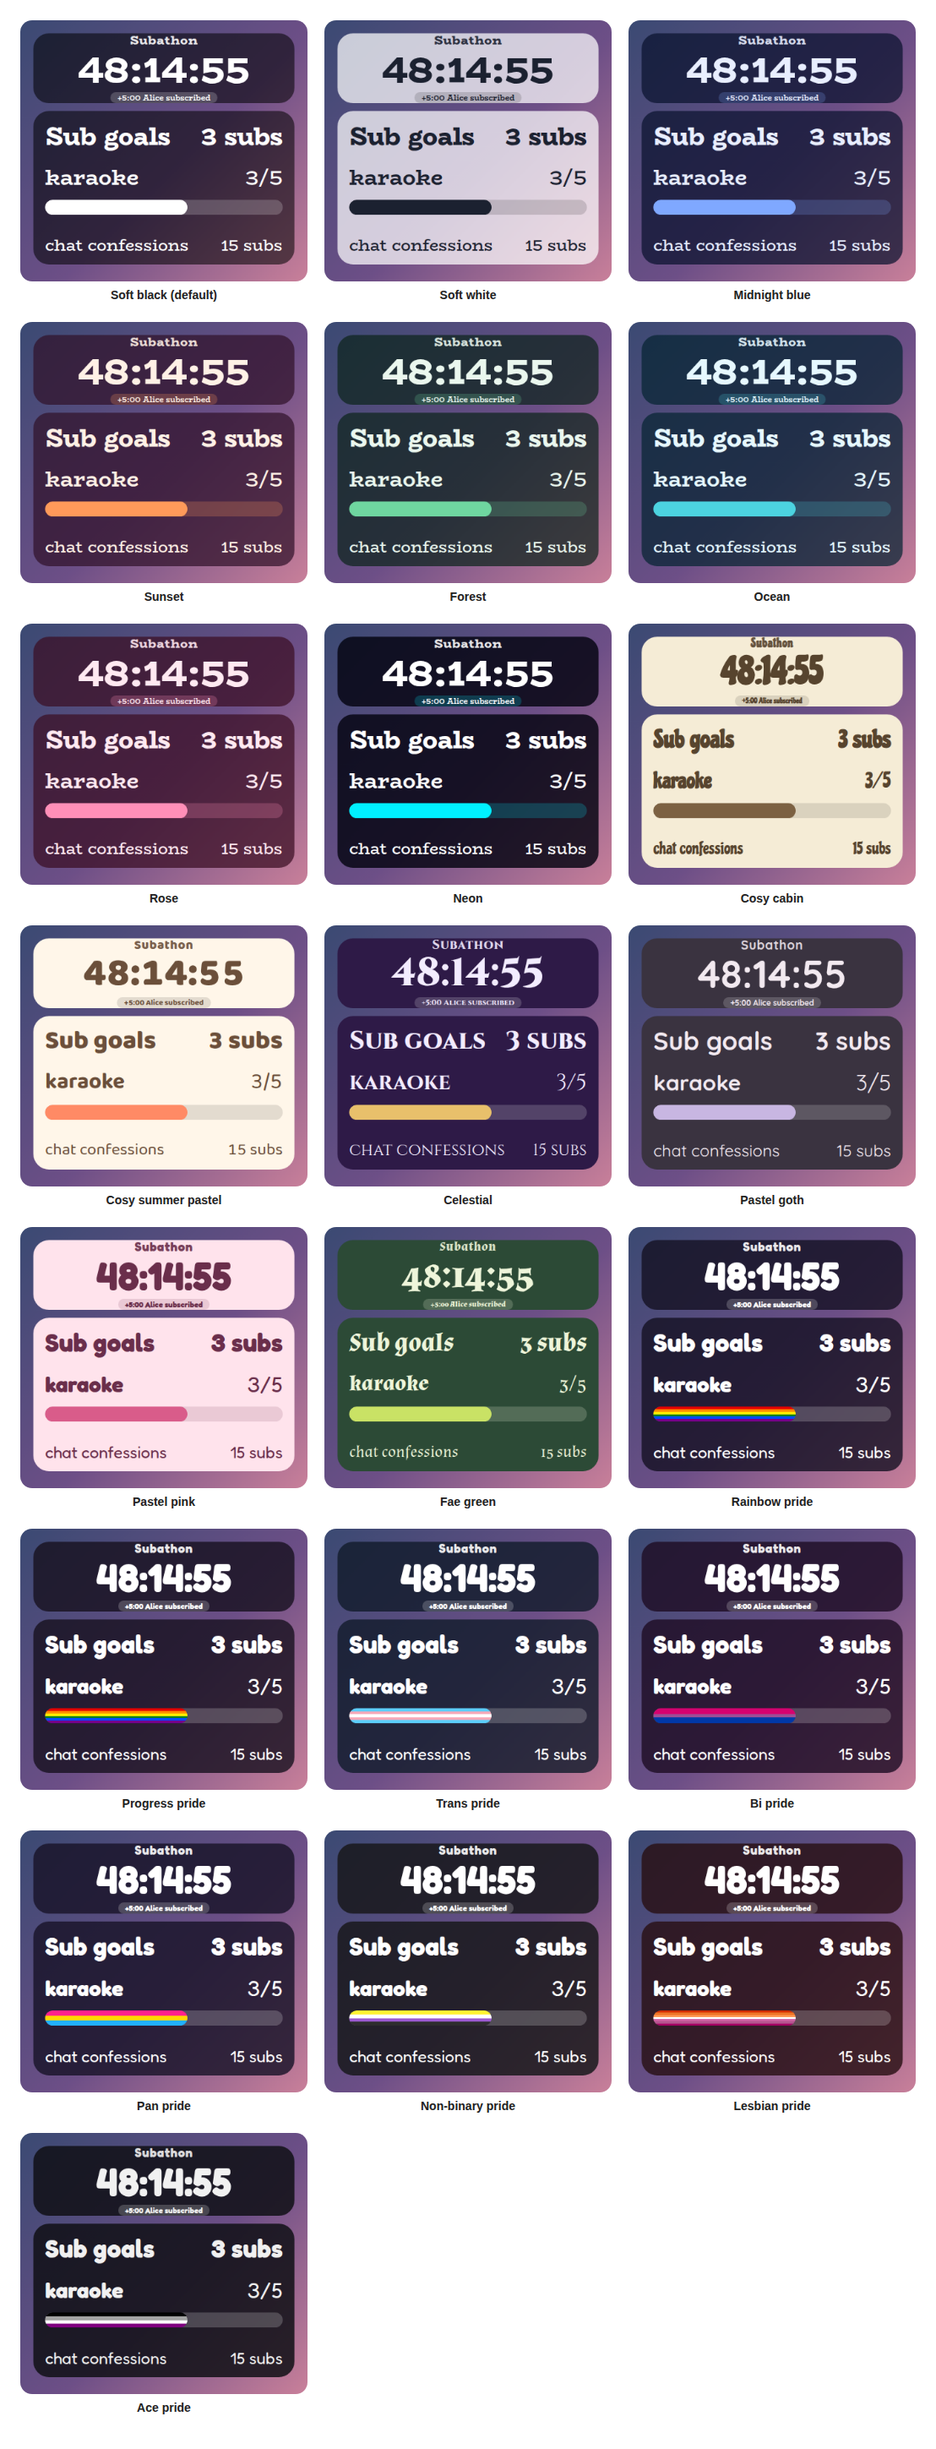
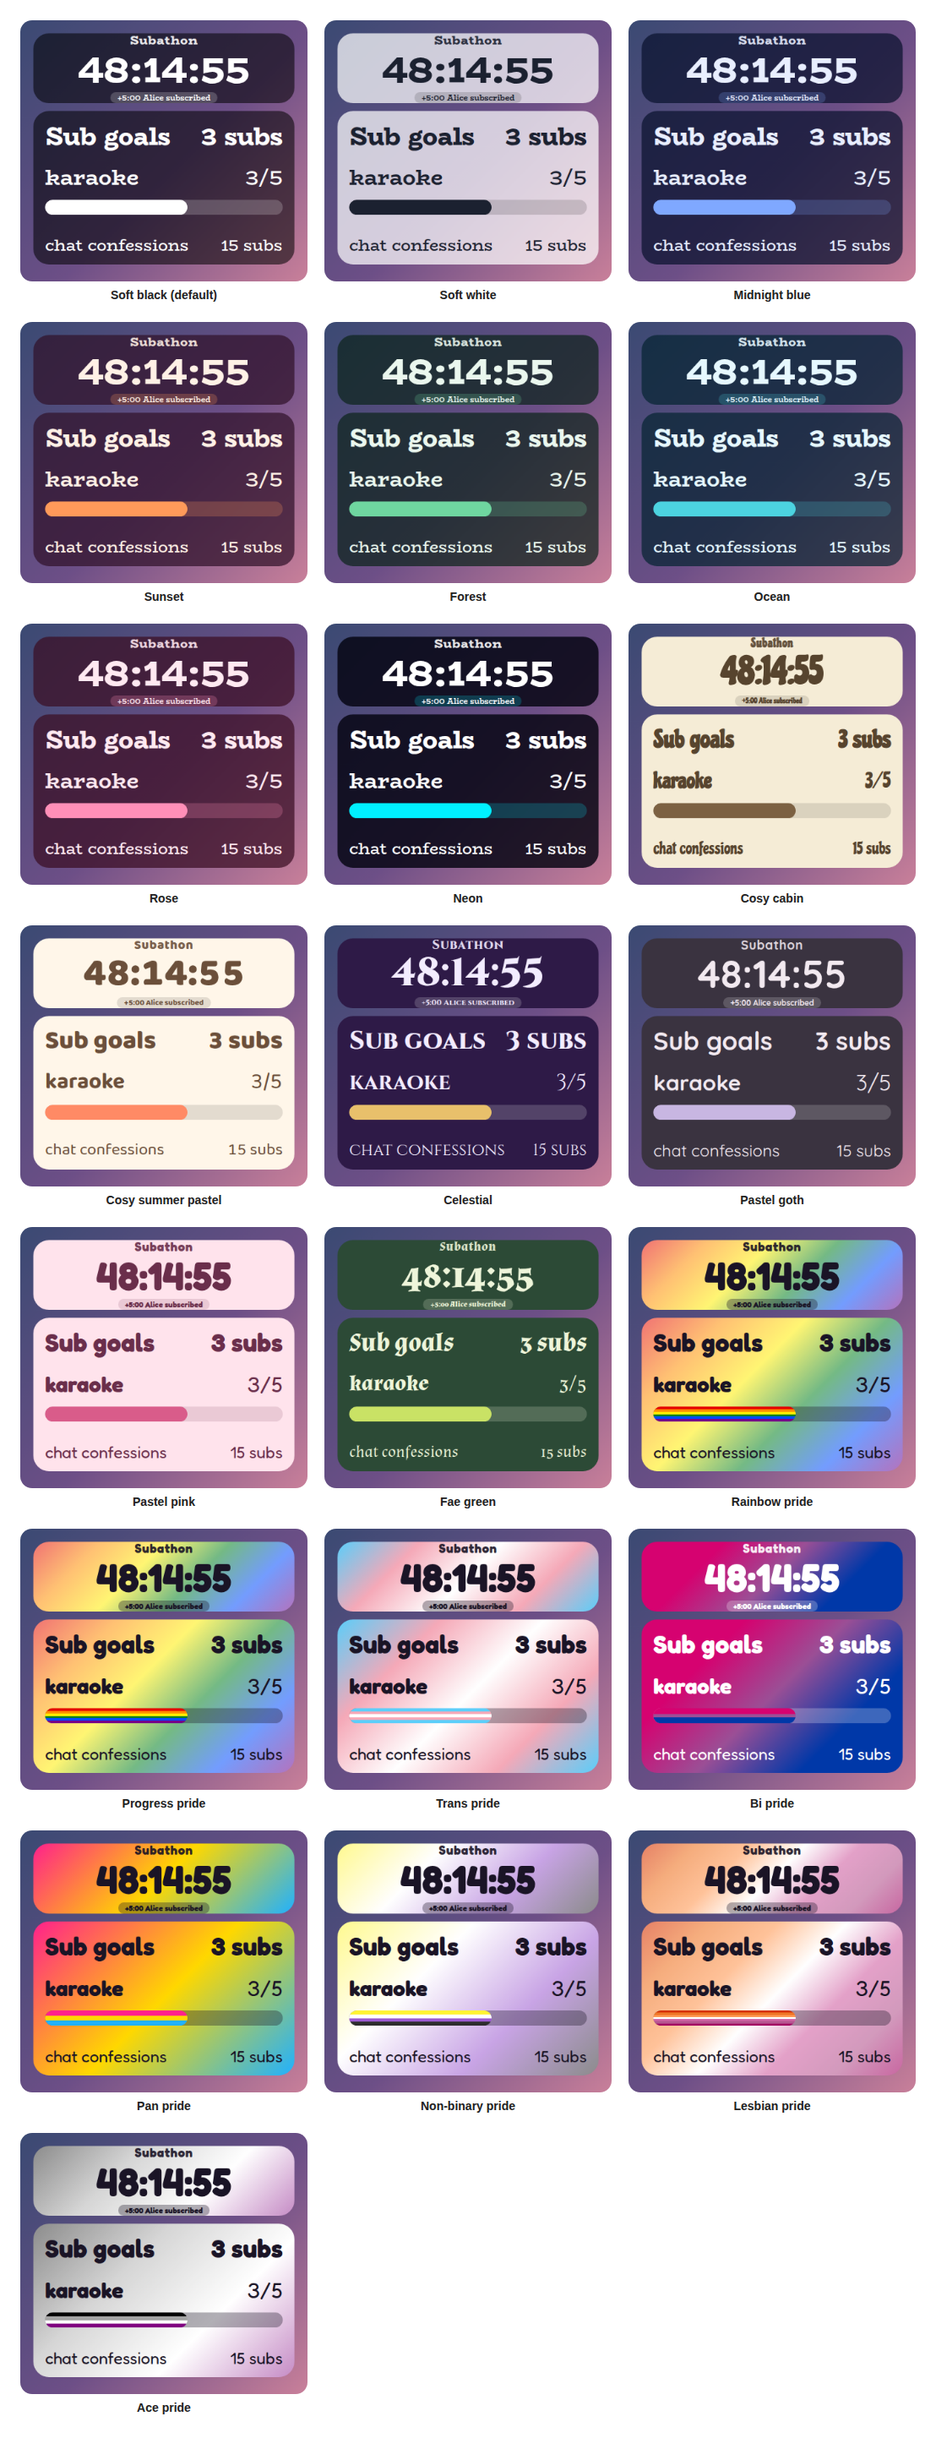
Give the pride presets flag-coloured panels
The pride presets used to be a dark card with only a thin striped bar, so the flag barely showed and the card did not match the palette. Now the card or panel itself wears the flag, as a soft gradient of its stripes, with the text kept readable.

How strong a wash goes over it is worked out, not guessed: the weakest scrim that keeps the text at a contrast of 4.6 or better against every stripe, in white or dark text as the flag needs. Trans, bi and pan need none, and a flag with a black stripe, such as ace and non-binary, gets a lighter wash. A plain colour stays as the fallback, so nothing that only understands a colour is affected, and every other preset, and Custom, is unchanged. The README gallery shows all twenty-two, and the tests check it.

The sub goals module it is built on moves to 1.4.0 for the same change.

Changed region(s): [[0.0307, 0.6211, 0.6444, 0.9938], [0.6751, 0.4969, 0.9819, 0.8696]]

diff --git a/widget/widget.js b/widget/widget.js
@@ -228,14 +228,14 @@
     pastelgoth: { panel: "#3A3340", text: "#F2E9F0", accent: "#C8B6E2", track: "rgba(255, 255, 255, 0.18)", glow: "#C8B6E2", font: "Quicksand" },
     pastelpink: { panel: "#FFE3EC", text: "#6A2E4B", accent: "#D95C8A", track: "rgba(106, 46, 75, 0.14)", glow: "#D95C8A", font: "Fredoka" },
     faegreen: { panel: "#2C4A36", text: "#EEF5DA", accent: "#C9E265", track: "rgba(238, 245, 218, 0.2)", glow: "#C9E265", font: "Almendra" },
-    pride: { panel: "rgba(20, 16, 34, 0.8)", text: "#FFFFFF", accent: "#FFEE00", track: "rgba(255, 255, 255, 0.2)", glow: "#FFEE00", font: "Fredoka", flag: ["#E50000", "#FF8D00", "#FFEE00", "#028121", "#004CFF", "#770088"] },
-    progress: { panel: "rgba(22, 16, 30, 0.8)", text: "#FFFFFF", accent: "#5BCEFA", track: "rgba(255, 255, 255, 0.2)", glow: "#5BCEFA", font: "Fredoka", flag: ["#E50000", "#FF8D00", "#FFEE00", "#028121", "#004CFF", "#770088"] },
-    trans: { panel: "rgba(18, 28, 44, 0.82)", text: "#FFFFFF", accent: "#F5A9B8", track: "rgba(255, 255, 255, 0.2)", glow: "#F5A9B8", font: "Fredoka", flag: ["#5BCEFA", "#F5A9B8", "#FFFFFF", "#F5A9B8", "#5BCEFA"] },
-    bi: { panel: "rgba(30, 14, 36, 0.82)", text: "#FFFFFF", accent: "#E0559F", track: "rgba(255, 255, 255, 0.2)", glow: "#E0559F", font: "Fredoka", flag: ["#D60270", "#D60270", "#9B4F96", "#0038A8", "#0038A8"] },
-    pan: { panel: "rgba(24, 20, 40, 0.82)", text: "#FFFFFF", accent: "#FFD800", track: "rgba(255, 255, 255, 0.2)", glow: "#FFD800", font: "Fredoka", flag: ["#FF218C", "#FFD800", "#21B1FF"] },
-    enby: { panel: "rgba(24, 24, 28, 0.86)", text: "#FFFFFF", accent: "#FFF433", track: "rgba(255, 255, 255, 0.2)", glow: "#FFF433", font: "Fredoka", flag: ["#FFF433", "#FFFFFF", "#9B59D0", "#2D2D2D"] },
-    lesbian: { panel: "rgba(40, 16, 20, 0.82)", text: "#FFFFFF", accent: "#FF9A56", track: "rgba(255, 255, 255, 0.2)", glow: "#FF9A56", font: "Fredoka", flag: ["#D52D00", "#EF7627", "#FF9A56", "#FFFFFF", "#D162A4", "#B55690", "#A30262"] },
-    ace: { panel: "rgba(16, 16, 22, 0.86)", text: "#F1F1F1", accent: "#B075C9", track: "rgba(255, 255, 255, 0.2)", glow: "#B075C9", font: "Fredoka", flag: ["#000000", "#A3A3A3", "#FFFFFF", "#800080"] }
+    pride: { panel: "rgba(194, 168, 154, 0.9)", text: "#1A1426", accent: "#1A1426", track: "rgba(26, 20, 38, 0.34)", glow: "#1A1426", font: "Fredoka", flag: ["#E50000", "#FF8D00", "#FFEE00", "#028121", "#004CFF", "#770088"], bgimg: "linear-gradient(rgba(255, 255, 255, 0.45), rgba(255, 255, 255, 0.45)), linear-gradient(135deg, #E50000, #FF8D00, #FFEE00, #028121, #004CFF, #770088)" },
+    progress: { panel: "rgba(194, 168, 154, 0.9)", text: "#1A1426", accent: "#1A1426", track: "rgba(26, 20, 38, 0.34)", glow: "#1A1426", font: "Fredoka", flag: ["#E50000", "#FF8D00", "#FFEE00", "#028121", "#004CFF", "#770088"], bgimg: "linear-gradient(rgba(255, 255, 255, 0.45), rgba(255, 255, 255, 0.45)), linear-gradient(135deg, #E50000, #FF8D00, #FFEE00, #028121, #004CFF, #770088)" },
+    trans: { panel: "rgba(185, 201, 225, 0.9)", text: "#1A1426", accent: "#1A1426", track: "rgba(26, 20, 38, 0.34)", glow: "#1A1426", font: "Fredoka", flag: ["#5BCEFA", "#F5A9B8", "#FFFFFF", "#F5A9B8", "#5BCEFA"], bgimg: "linear-gradient(135deg, #5BCEFA, #F5A9B8, #FFFFFF, #F5A9B8, #5BCEFA)" },
+    bi: { panel: "rgba(117, 39, 142, 0.9)", text: "#FFFFFF", accent: "#FFFFFF", track: "rgba(255, 255, 255, 0.24)", glow: "#FFFFFF", font: "Fredoka", flag: ["#D60270", "#D60270", "#9B4F96", "#0038A8", "#0038A8"], bgimg: "linear-gradient(135deg, #D60270, #D60270, #9B4F96, #0038A8, #0038A8)" },
+    pan: { panel: "rgba(181, 142, 132, 0.9)", text: "#1A1426", accent: "#1A1426", track: "rgba(26, 20, 38, 0.34)", glow: "#1A1426", font: "Fredoka", flag: ["#FF218C", "#FFD800", "#21B1FF"], bgimg: "linear-gradient(135deg, #FF218C, #FFD800, #21B1FF)" },
+    enby: { panel: "rgba(212, 202, 192, 0.9)", text: "#1A1426", accent: "#2D2D2D", track: "rgba(26, 20, 38, 0.34)", glow: "#2D2D2D", font: "Fredoka", flag: ["#FFF433", "#FFFFFF", "#9B59D0", "#2D2D2D"], bgimg: "linear-gradient(rgba(255, 255, 255, 0.45), rgba(255, 255, 255, 0.45)), linear-gradient(135deg, #FFF433, #FFFFFF, #9B59D0, #2D2D2D)" },
+    lesbian: { panel: "rgba(232, 167, 169, 0.9)", text: "#1A1426", accent: "#1A1426", track: "rgba(26, 20, 38, 0.34)", glow: "#1A1426", font: "Fredoka", flag: ["#D52D00", "#EF7627", "#FF9A56", "#FFFFFF", "#D162A4", "#B55690", "#A30262"], bgimg: "linear-gradient(rgba(255, 255, 255, 0.40), rgba(255, 255, 255, 0.40)), linear-gradient(135deg, #D52D00, #EF7627, #FF9A56, #FFFFFF, #D162A4, #B55690, #A30262)" },
+    ace: { panel: "rgba(202, 187, 202, 0.9)", text: "#1A1426", accent: "#000000", track: "rgba(26, 20, 38, 0.34)", glow: "#000000", font: "Fredoka", flag: ["#000000", "#A3A3A3", "#FFFFFF", "#800080"], bgimg: "linear-gradient(rgba(255, 255, 255, 0.55), rgba(255, 255, 255, 0.55)), linear-gradient(135deg, #000000, #A3A3A3, #FFFFFF, #800080)" }
   };
 
   // The colours the panel is actually drawn with: a preset's own, or the pickers'
@@ -260,7 +260,7 @@
     return {
       panel: P.panel, text: P.text, waiting: P.text, done: P.text, title: P.text, total: P.text,
       thanks: P.text, accent: P.accent, track: P.track, glow: rgba(P.glow, 0.7), borderC: P.accent, font: P.font,
-      flag: P.flag ? flagGradient(P.flag) : ""
+      flag: P.flag ? flagGradient(P.flag) : "", bgimg: P.bgimg || ""
     };
   }
 
@@ -270,6 +270,7 @@
     var T = themeColours();
     var set = function (k, v) { root.style.setProperty(k, v); };
     set("--panel", T.panel);
+    set("--panel-img", T.bgimg || "none");
     set("--radius", L.radius + "px");
     set("--pad-v", L.padV + "em");
     set("--pad-h", L.padH + "em");
@@ -1189,14 +1190,14 @@
     pastelgoth: { panel: "#3A3340", text: "#F2E9F0", accent: "#C8B6E2", track: "rgba(255, 255, 255, 0.18)", alarm: "#C96A8E", font: "Quicksand" },
     pastelpink: { panel: "#FFE3EC", text: "#6A2E4B", accent: "#D95C8A", track: "rgba(106, 46, 75, 0.14)", alarm: "#D6456F", font: "Fredoka" },
     faegreen: { panel: "#2C4A36", text: "#EEF5DA", accent: "#C9E265", track: "rgba(238, 245, 218, 0.2)", alarm: "#E0805A", font: "Almendra" },
-    pride: { panel: "rgba(20, 16, 34, 0.8)", text: "#FFFFFF", accent: "#FFEE00", track: "rgba(255, 255, 255, 0.2)", alarm: "#FF5C5C", font: "Fredoka", flag: ["#E50000", "#FF8D00", "#FFEE00", "#028121", "#004CFF", "#770088"] },
-    progress: { panel: "rgba(22, 16, 30, 0.8)", text: "#FFFFFF", accent: "#5BCEFA", track: "rgba(255, 255, 255, 0.2)", alarm: "#FF5C5C", font: "Fredoka", flag: ["#E50000", "#FF8D00", "#FFEE00", "#028121", "#004CFF", "#770088"] },
-    trans: { panel: "rgba(18, 28, 44, 0.82)", text: "#FFFFFF", accent: "#F5A9B8", track: "rgba(255, 255, 255, 0.2)", alarm: "#FF5C5C", font: "Fredoka", flag: ["#5BCEFA", "#F5A9B8", "#FFFFFF", "#F5A9B8", "#5BCEFA"] },
-    bi: { panel: "rgba(30, 14, 36, 0.82)", text: "#FFFFFF", accent: "#E0559F", track: "rgba(255, 255, 255, 0.2)", alarm: "#FF5C5C", font: "Fredoka", flag: ["#D60270", "#D60270", "#9B4F96", "#0038A8", "#0038A8"] },
-    pan: { panel: "rgba(24, 20, 40, 0.82)", text: "#FFFFFF", accent: "#FFD800", track: "rgba(255, 255, 255, 0.2)", alarm: "#FF5C5C", font: "Fredoka", flag: ["#FF218C", "#FFD800", "#21B1FF"] },
-    enby: { panel: "rgba(24, 24, 28, 0.86)", text: "#FFFFFF", accent: "#FFF433", track: "rgba(255, 255, 255, 0.2)", alarm: "#FF5C5C", font: "Fredoka", flag: ["#FFF433", "#FFFFFF", "#9B59D0", "#2D2D2D"] },
-    lesbian: { panel: "rgba(40, 16, 20, 0.82)", text: "#FFFFFF", accent: "#FF9A56", track: "rgba(255, 255, 255, 0.2)", alarm: "#FF5C5C", font: "Fredoka", flag: ["#D52D00", "#EF7627", "#FF9A56", "#FFFFFF", "#D162A4", "#B55690", "#A30262"] },
-    ace: { panel: "rgba(16, 16, 22, 0.86)", text: "#F1F1F1", accent: "#B075C9", track: "rgba(255, 255, 255, 0.2)", alarm: "#FF5C5C", font: "Fredoka", flag: ["#000000", "#A3A3A3", "#FFFFFF", "#800080"] }
+    pride: { panel: "rgba(194, 168, 154, 0.9)", text: "#1A1426", accent: "#1A1426", track: "rgba(26, 20, 38, 0.34)", alarm: "#B3123A", font: "Fredoka", flag: ["#E50000", "#FF8D00", "#FFEE00", "#028121", "#004CFF", "#770088"], bgimg: "linear-gradient(rgba(255, 255, 255, 0.45), rgba(255, 255, 255, 0.45)), linear-gradient(135deg, #E50000, #FF8D00, #FFEE00, #028121, #004CFF, #770088)" },
+    progress: { panel: "rgba(194, 168, 154, 0.9)", text: "#1A1426", accent: "#1A1426", track: "rgba(26, 20, 38, 0.34)", alarm: "#B3123A", font: "Fredoka", flag: ["#E50000", "#FF8D00", "#FFEE00", "#028121", "#004CFF", "#770088"], bgimg: "linear-gradient(rgba(255, 255, 255, 0.45), rgba(255, 255, 255, 0.45)), linear-gradient(135deg, #E50000, #FF8D00, #FFEE00, #028121, #004CFF, #770088)" },
+    trans: { panel: "rgba(185, 201, 225, 0.9)", text: "#1A1426", accent: "#1A1426", track: "rgba(26, 20, 38, 0.34)", alarm: "#B3123A", font: "Fredoka", flag: ["#5BCEFA", "#F5A9B8", "#FFFFFF", "#F5A9B8", "#5BCEFA"], bgimg: "linear-gradient(135deg, #5BCEFA, #F5A9B8, #FFFFFF, #F5A9B8, #5BCEFA)" },
+    bi: { panel: "rgba(117, 39, 142, 0.9)", text: "#FFFFFF", accent: "#FFFFFF", track: "rgba(255, 255, 255, 0.24)", alarm: "#FF6B6B", font: "Fredoka", flag: ["#D60270", "#D60270", "#9B4F96", "#0038A8", "#0038A8"], bgimg: "linear-gradient(135deg, #D60270, #D60270, #9B4F96, #0038A8, #0038A8)" },
+    pan: { panel: "rgba(181, 142, 132, 0.9)", text: "#1A1426", accent: "#1A1426", track: "rgba(26, 20, 38, 0.34)", alarm: "#B3123A", font: "Fredoka", flag: ["#FF218C", "#FFD800", "#21B1FF"], bgimg: "linear-gradient(135deg, #FF218C, #FFD800, #21B1FF)" },
+    enby: { panel: "rgba(212, 202, 192, 0.9)", text: "#1A1426", accent: "#2D2D2D", track: "rgba(26, 20, 38, 0.34)", alarm: "#B3123A", font: "Fredoka", flag: ["#FFF433", "#FFFFFF", "#9B59D0", "#2D2D2D"], bgimg: "linear-gradient(rgba(255, 255, 255, 0.45), rgba(255, 255, 255, 0.45)), linear-gradient(135deg, #FFF433, #FFFFFF, #9B59D0, #2D2D2D)" },
+    lesbian: { panel: "rgba(232, 167, 169, 0.9)", text: "#1A1426", accent: "#1A1426", track: "rgba(26, 20, 38, 0.34)", alarm: "#B3123A", font: "Fredoka", flag: ["#D52D00", "#EF7627", "#FF9A56", "#FFFFFF", "#D162A4", "#B55690", "#A30262"], bgimg: "linear-gradient(rgba(255, 255, 255, 0.40), rgba(255, 255, 255, 0.40)), linear-gradient(135deg, #D52D00, #EF7627, #FF9A56, #FFFFFF, #D162A4, #B55690, #A30262)" },
+    ace: { panel: "rgba(202, 187, 202, 0.9)", text: "#1A1426", accent: "#000000", track: "rgba(26, 20, 38, 0.34)", alarm: "#B3123A", font: "Fredoka", flag: ["#000000", "#A3A3A3", "#FFFFFF", "#800080"], bgimg: "linear-gradient(rgba(255, 255, 255, 0.55), rgba(255, 255, 255, 0.55)), linear-gradient(135deg, #000000, #A3A3A3, #FFFFFF, #800080)" }
   };
 
   var el = {};
@@ -1649,6 +1650,7 @@
     theme = themeColours();
     var s = el.app.style;
     s.setProperty("--sa-bg", theme.panel);
+    s.setProperty("--sa-bgimg", theme.bgimg || "none");
     s.setProperty("--sa-text", theme.text);
     s.setProperty("--sa-accent", theme.accent);
     s.setProperty("--sa-track", theme.track);

diff --git a/src/clock.js b/src/clock.js
@@ -36,14 +36,14 @@
     pastelgoth: { panel: "#3A3340", text: "#F2E9F0", accent: "#C8B6E2", track: "rgba(255, 255, 255, 0.18)", alarm: "#C96A8E", font: "Quicksand" },
     pastelpink: { panel: "#FFE3EC", text: "#6A2E4B", accent: "#D95C8A", track: "rgba(106, 46, 75, 0.14)", alarm: "#D6456F", font: "Fredoka" },
     faegreen: { panel: "#2C4A36", text: "#EEF5DA", accent: "#C9E265", track: "rgba(238, 245, 218, 0.2)", alarm: "#E0805A", font: "Almendra" },
-    pride: { panel: "rgba(20, 16, 34, 0.8)", text: "#FFFFFF", accent: "#FFEE00", track: "rgba(255, 255, 255, 0.2)", alarm: "#FF5C5C", font: "Fredoka", flag: ["#E50000", "#FF8D00", "#FFEE00", "#028121", "#004CFF", "#770088"] },
-    progress: { panel: "rgba(22, 16, 30, 0.8)", text: "#FFFFFF", accent: "#5BCEFA", track: "rgba(255, 255, 255, 0.2)", alarm: "#FF5C5C", font: "Fredoka", flag: ["#E50000", "#FF8D00", "#FFEE00", "#028121", "#004CFF", "#770088"] },
-    trans: { panel: "rgba(18, 28, 44, 0.82)", text: "#FFFFFF", accent: "#F5A9B8", track: "rgba(255, 255, 255, 0.2)", alarm: "#FF5C5C", font: "Fredoka", flag: ["#5BCEFA", "#F5A9B8", "#FFFFFF", "#F5A9B8", "#5BCEFA"] },
-    bi: { panel: "rgba(30, 14, 36, 0.82)", text: "#FFFFFF", accent: "#E0559F", track: "rgba(255, 255, 255, 0.2)", alarm: "#FF5C5C", font: "Fredoka", flag: ["#D60270", "#D60270", "#9B4F96", "#0038A8", "#0038A8"] },
-    pan: { panel: "rgba(24, 20, 40, 0.82)", text: "#FFFFFF", accent: "#FFD800", track: "rgba(255, 255, 255, 0.2)", alarm: "#FF5C5C", font: "Fredoka", flag: ["#FF218C", "#FFD800", "#21B1FF"] },
-    enby: { panel: "rgba(24, 24, 28, 0.86)", text: "#FFFFFF", accent: "#FFF433", track: "rgba(255, 255, 255, 0.2)", alarm: "#FF5C5C", font: "Fredoka", flag: ["#FFF433", "#FFFFFF", "#9B59D0", "#2D2D2D"] },
-    lesbian: { panel: "rgba(40, 16, 20, 0.82)", text: "#FFFFFF", accent: "#FF9A56", track: "rgba(255, 255, 255, 0.2)", alarm: "#FF5C5C", font: "Fredoka", flag: ["#D52D00", "#EF7627", "#FF9A56", "#FFFFFF", "#D162A4", "#B55690", "#A30262"] },
-    ace: { panel: "rgba(16, 16, 22, 0.86)", text: "#F1F1F1", accent: "#B075C9", track: "rgba(255, 255, 255, 0.2)", alarm: "#FF5C5C", font: "Fredoka", flag: ["#000000", "#A3A3A3", "#FFFFFF", "#800080"] }
+    pride: { panel: "rgba(194, 168, 154, 0.9)", text: "#1A1426", accent: "#1A1426", track: "rgba(26, 20, 38, 0.34)", alarm: "#B3123A", font: "Fredoka", flag: ["#E50000", "#FF8D00", "#FFEE00", "#028121", "#004CFF", "#770088"], bgimg: "linear-gradient(rgba(255, 255, 255, 0.45), rgba(255, 255, 255, 0.45)), linear-gradient(135deg, #E50000, #FF8D00, #FFEE00, #028121, #004CFF, #770088)" },
+    progress: { panel: "rgba(194, 168, 154, 0.9)", text: "#1A1426", accent: "#1A1426", track: "rgba(26, 20, 38, 0.34)", alarm: "#B3123A", font: "Fredoka", flag: ["#E50000", "#FF8D00", "#FFEE00", "#028121", "#004CFF", "#770088"], bgimg: "linear-gradient(rgba(255, 255, 255, 0.45), rgba(255, 255, 255, 0.45)), linear-gradient(135deg, #E50000, #FF8D00, #FFEE00, #028121, #004CFF, #770088)" },
+    trans: { panel: "rgba(185, 201, 225, 0.9)", text: "#1A1426", accent: "#1A1426", track: "rgba(26, 20, 38, 0.34)", alarm: "#B3123A", font: "Fredoka", flag: ["#5BCEFA", "#F5A9B8", "#FFFFFF", "#F5A9B8", "#5BCEFA"], bgimg: "linear-gradient(135deg, #5BCEFA, #F5A9B8, #FFFFFF, #F5A9B8, #5BCEFA)" },
+    bi: { panel: "rgba(117, 39, 142, 0.9)", text: "#FFFFFF", accent: "#FFFFFF", track: "rgba(255, 255, 255, 0.24)", alarm: "#FF6B6B", font: "Fredoka", flag: ["#D60270", "#D60270", "#9B4F96", "#0038A8", "#0038A8"], bgimg: "linear-gradient(135deg, #D60270, #D60270, #9B4F96, #0038A8, #0038A8)" },
+    pan: { panel: "rgba(181, 142, 132, 0.9)", text: "#1A1426", accent: "#1A1426", track: "rgba(26, 20, 38, 0.34)", alarm: "#B3123A", font: "Fredoka", flag: ["#FF218C", "#FFD800", "#21B1FF"], bgimg: "linear-gradient(135deg, #FF218C, #FFD800, #21B1FF)" },
+    enby: { panel: "rgba(212, 202, 192, 0.9)", text: "#1A1426", accent: "#2D2D2D", track: "rgba(26, 20, 38, 0.34)", alarm: "#B3123A", font: "Fredoka", flag: ["#FFF433", "#FFFFFF", "#9B59D0", "#2D2D2D"], bgimg: "linear-gradient(rgba(255, 255, 255, 0.45), rgba(255, 255, 255, 0.45)), linear-gradient(135deg, #FFF433, #FFFFFF, #9B59D0, #2D2D2D)" },
+    lesbian: { panel: "rgba(232, 167, 169, 0.9)", text: "#1A1426", accent: "#1A1426", track: "rgba(26, 20, 38, 0.34)", alarm: "#B3123A", font: "Fredoka", flag: ["#D52D00", "#EF7627", "#FF9A56", "#FFFFFF", "#D162A4", "#B55690", "#A30262"], bgimg: "linear-gradient(rgba(255, 255, 255, 0.40), rgba(255, 255, 255, 0.40)), linear-gradient(135deg, #D52D00, #EF7627, #FF9A56, #FFFFFF, #D162A4, #B55690, #A30262)" },
+    ace: { panel: "rgba(202, 187, 202, 0.9)", text: "#1A1426", accent: "#000000", track: "rgba(26, 20, 38, 0.34)", alarm: "#B3123A", font: "Fredoka", flag: ["#000000", "#A3A3A3", "#FFFFFF", "#800080"], bgimg: "linear-gradient(rgba(255, 255, 255, 0.55), rgba(255, 255, 255, 0.55)), linear-gradient(135deg, #000000, #A3A3A3, #FFFFFF, #800080)" }
   };
 
   var el = {};
@@ -496,6 +496,7 @@
     theme = themeColours();
     var s = el.app.style;
     s.setProperty("--sa-bg", theme.panel);
+    s.setProperty("--sa-bgimg", theme.bgimg || "none");
     s.setProperty("--sa-text", theme.text);
     s.setProperty("--sa-accent", theme.accent);
     s.setProperty("--sa-track", theme.track);

diff --git a/widget/widget.css b/widget/widget.css
@@ -50,6 +50,7 @@
   font-family: var(--sa-font);
   color: var(--sa-text);
   background: var(--sa-bg);
+  background-image: var(--sa-bgimg, none);
   border: var(--sa-border);
   border-radius: var(--sa-radius);
   box-shadow: var(--sa-shadow);
@@ -201,6 +202,7 @@
   overflow: hidden;
   padding: var(--pad-v) var(--pad-h);
   background: var(--panel);
+  background-image: var(--panel-img, none);
   border: var(--border-w) solid var(--border-c);
   border-radius: var(--radius);
   box-shadow: var(--shadow);

diff --git a/src/clock.css b/src/clock.css
@@ -50,6 +50,7 @@
   font-family: var(--sa-font);
   color: var(--sa-text);
   background: var(--sa-bg);
+  background-image: var(--sa-bgimg, none);
   border: var(--sa-border);
   border-radius: var(--sa-radius);
   box-shadow: var(--sa-shadow);

diff --git a/README.md b/README.md
@@ -55,16 +55,16 @@ One setting picks the look, for the clock and the goals together. The same twent
 | Pastel goth | Charcoal and lilac, in Quicksand. |
 | Pastel pink | Soft blush pink with rose, in Fredoka. |
 | Fae green | Mossy green with a firefly lime accent, in Almendra. |
-| Rainbow pride | Dark plum with the six rainbow stripes, in Fredoka. |
-| Progress pride | The six rainbow stripes with the chevron's pink and light blue. |
-| Trans pride | Dark blue with light blue, pink and white. |
-| Bi pride | Dark violet with magenta, purple and blue. |
-| Pan pride | Dark indigo with pink, yellow and light blue. |
-| Non-binary pride | Charcoal with yellow, white, purple and black. |
-| Lesbian pride | Dark wine with the orange to pink stripes. |
-| Ace pride | Near black with grey, white and purple. |
+| Rainbow pride | A soft wash of the six rainbow stripes, in Fredoka. |
+| Progress pride | The same stripes, with the chevron's pink and light blue in the wheel and poll colours. |
+| Trans pride | Light blue, pink and white. |
+| Bi pride | Magenta, purple and blue, with white text. |
+| Pan pride | Pink, yellow and light blue. |
+| Non-binary pride | Yellow, white, purple and black, softened so the text stays readable. |
+| Lesbian pride | The orange to pink stripes. |
+| Ace pride | Black, grey, white and purple, softened so the text stays readable. |
 
-The last eight are pride presets, built from the stripes of the rainbow, progress, trans, bi, pan, non-binary, lesbian and ace flags. A bar is striped like the flag where an overlay has one, and the slices of a wheel and the options of a poll take their colours from the stripes in order. The colours follow each flag's published design, and the progress flag shows its six rainbow stripes, because its chevron is a separate shape.
+The last eight are pride presets, built from the stripes of the rainbow, progress, trans, bi, pan, non-binary, lesbian and ace flags. The card or panel wears the flag as its background, with only as much of a wash over it as the text needs to stay readable, so flags with a black stripe come out softer. A bar is striped like the flag where an overlay has one, and the slices of a wheel and the options of a poll take their colours from the stripes in order. The colours follow each flag's published design, and the progress flag shows its six rainbow stripes, because its chevron is a separate shape.
 
 Choose **Custom** to use the colour pickers and font instead. They are ignored while a preset is chosen.
 
